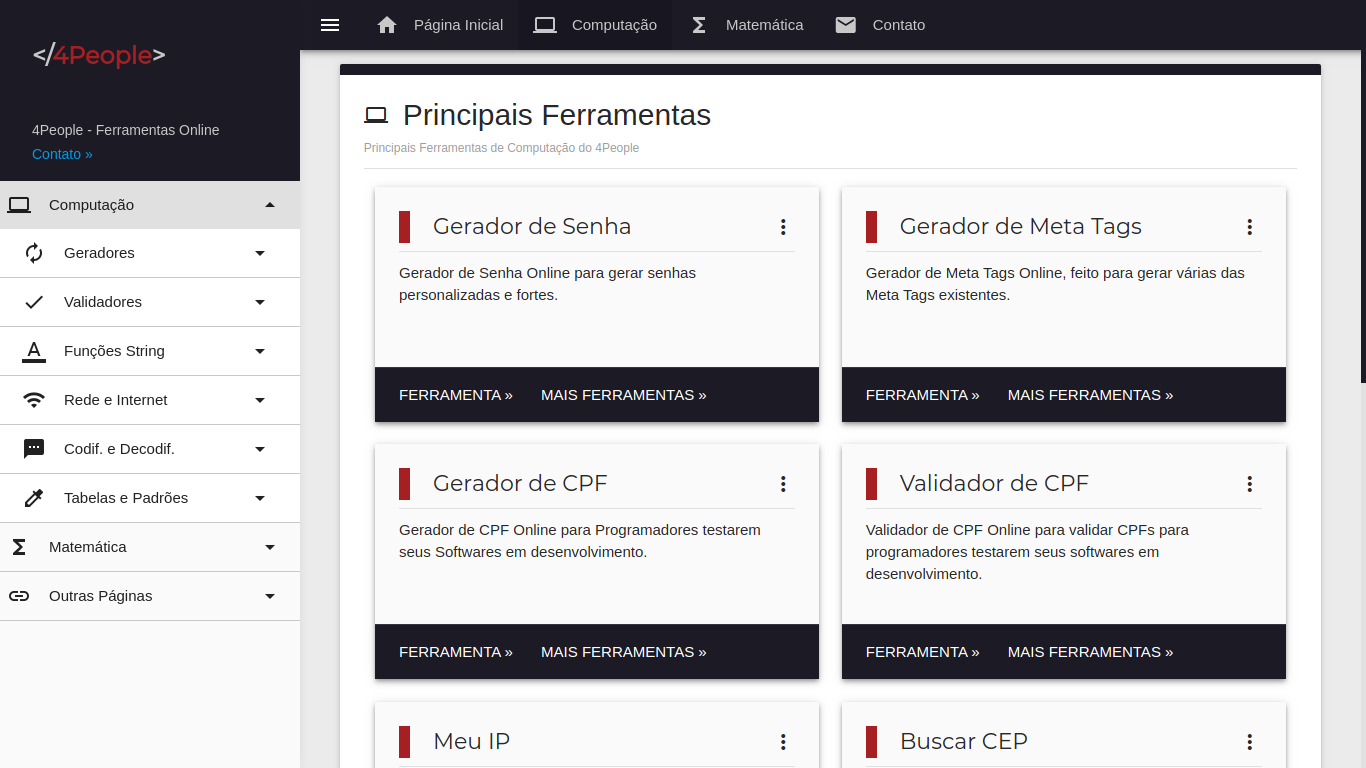
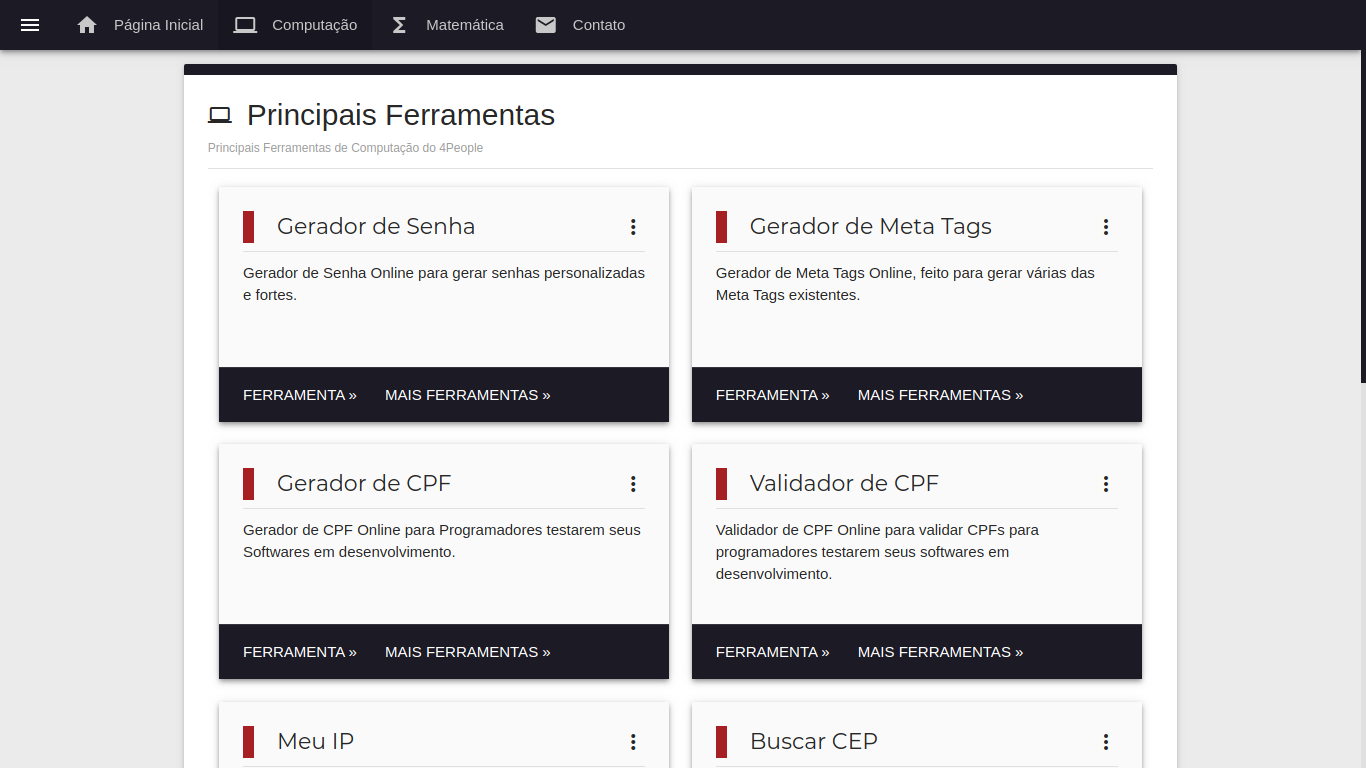
sidenav UI improvements and more

diff --git a/assets/src/css/main.css b/assets/src/css/main.css
@@ -32,7 +32,7 @@ body {
 
 .sidenav {
 	border-right: 0;
-	box-shadow: -15px 0 18px #1b1a25
+	box-shadow: -17px 0 18px #1b1a25
 }
 
 /* cyrillic-ext */
@@ -203,12 +203,30 @@ body>header+ul>li>.collapsible-header {
 }
 
 .sidenav.collapsible>li.active {
-	background-color: #E0E0E0
+	background-color: #D8D8D8
+}
+
+.collapsible-body li.active {
+	background-color: #E9E9E9
+}
+
+.sidenav.collapsible>li,
+.collapsible-body li {
+	transition: all 300ms
+}
+
+.collapsible-header:hover,
+.collapsible-header:focus {
+	background-color: unset !important
 }
 
 .collapsible-body a {
 	margin-bottom: -1px;
 	border-bottom: 1px solid #c8c8c8
+}
+
+.collapsible-body a:focus {
+	background-color: unset
 }
 
 .collapsible-body a i {
@@ -287,7 +305,6 @@ body>header+ul>li>.collapsible-header {
 
 @media (min-width: 993px) {
 	main>.container {
-		transition: width 300ms !important;
 		width: 92.5%
 	}
 

diff --git a/assets/algorithms/calculators/investment.js b/assets/algorithms/calculators/investment.js
@@ -1,0 +1,29 @@
+const calculateInvestment = ({ value = 0, CDI = 0, perMonth = 0, months = 0, IR = false }) => {
+	CDI /= 12
+	CDI /= 100
+
+	const formatter = Intl.NumberFormat([], { style: 'currency', currency: 'BRL' })
+	const oldValue = value
+
+	for (let i = 0; i < months; i++) {
+		value += value * CDI
+
+		if (i > 0) value += perMonth
+	}
+
+	let profit = value - perMonth * (months - 1) - oldValue
+	const tax = IR ? profit * (months < 7 ? .225 : (months < 13 ? .2 : (months < 25 ? .175 : .15))) : 0
+	profit -= tax
+	value -= tax
+
+	return {
+		start: formatter.format(oldValue),
+		amountMonths: months,
+		amountYears: Math.floor(months / 12),
+		tax: formatter.format(tax),
+		profit: formatter.format(profit),
+		perMonth: formatter.format(profit / months),
+		perYear: formatter.format(profit / Math.floor(months / 12)),
+		total: formatter.format(value),
+	}
+}

diff --git a/assets/src/js/sidenav.js b/assets/src/js/sidenav.js
@@ -9,6 +9,7 @@ document.addEventListener('DOMContentLoaded', () => {
 			const icon = paddingHeadersA[i].querySelector('i')
 			icon.innerHTML = 'radio_button_checked'
 			icon.classList.add('dark-grey-text')
+			icon.classList.remove('red-color-text')
 			icon.style.fontSize = '20px'
 			icon.style.marginLeft = '2.5px'
 

diff --git a/assets/components/admin_components/sidenav.php b/assets/components/admin_components/sidenav.php
@@ -29,11 +29,11 @@ extract($sql->fetch())
 			<ul class="collapsible padding-headers padding-buttons">
 				<li>
 					<ul>
-						<li><a class="waves-effect" href="<?= $root ?>/admin/panel/" title="Painel Administrativo"><i class="material-icons left">keyboard_arrow_right</i>Painel Administrativo</a></li>
-						<li><a class="waves-effect" href="<?= $root ?>/admin/panel/messages/" title="Mensagens dos usuários"><i class="material-icons left">keyboard_arrow_right</i>Mensagem dos usuários</a></li>
-						<li><a class="waves-effect" href="<?= $root ?>/admin/panel/login_logs/" title="Logs de Logins falhos"><i class="material-icons left">keyboard_arrow_right</i>Logs de Logins falhos</a></li>
-						<li><a class="waves-effect" href="<?= $root ?>/admin/panel/admin_logs/" title="Logs de Administradores"><i class="material-icons left">keyboard_arrow_right</i>Logs de Administradores</a></li>
-						<li><a class="waves-effect" href="<?= $root ?>/admin/panel/maintenance/" title="Manutenção do site"><i class="material-icons left">keyboard_arrow_right</i>Manutenção do 4People</a></li>
+						<li><a class="waves-effect" href="<?= $root ?>/admin/panel/" title="Painel Administrativo"><i class="material-icons left red-color-text">keyboard_arrow_right</i>Painel Administrativo</a></li>
+						<li><a class="waves-effect" href="<?= $root ?>/admin/panel/messages/" title="Mensagens dos usuários"><i class="material-icons left red-color-text">keyboard_arrow_right</i>Mensagem dos usuários</a></li>
+						<li><a class="waves-effect" href="<?= $root ?>/admin/panel/login_logs/" title="Logs de Logins falhos"><i class="material-icons left red-color-text">keyboard_arrow_right</i>Logs de Logins falhos</a></li>
+						<li><a class="waves-effect" href="<?= $root ?>/admin/panel/admin_logs/" title="Logs de Administradores"><i class="material-icons left red-color-text">keyboard_arrow_right</i>Logs de Administradores</a></li>
+						<li><a class="waves-effect" href="<?= $root ?>/admin/panel/maintenance/" title="Manutenção do site"><i class="material-icons left red-color-text">keyboard_arrow_right</i>Manutenção do 4People</a></li>
 					</ul>
 				</li>
 			</ul>
@@ -48,9 +48,9 @@ extract($sql->fetch())
 			<ul class="collapsible padding-headers padding-buttons">
 				<li>
 					<ul>
-						<li><a class="waves-effect" href="<?= $root ?>/admin/panel/administrators/" title="Controle de Administradores"><i class="material-icons left">keyboard_arrow_right</i>Controle de Administradores</a></li>
-						<li><a class="waves-effect" href="<?= $root ?>/admin/panel/banneds/" title="Controle de usuários banidos"><i class="material-icons left">keyboard_arrow_right</i>Controle de Banimentos</a></li>
-						<li><a class="waves-effect" href="<?= $root ?>/admin/panel/tools/tool_types/" title="Controle de Tipos de Ferramentas"><i class="material-icons left">keyboard_arrow_right</i>Controle de Tipos</a></li>
+						<li><a class="waves-effect" href="<?= $root ?>/admin/panel/administrators/" title="Controle de Administradores"><i class="material-icons left red-color-text">keyboard_arrow_right</i>Controle de Administradores</a></li>
+						<li><a class="waves-effect" href="<?= $root ?>/admin/panel/banneds/" title="Controle de usuários banidos"><i class="material-icons left red-color-text">keyboard_arrow_right</i>Controle de Banimentos</a></li>
+						<li><a class="waves-effect" href="<?= $root ?>/admin/panel/tools/tool_types/" title="Controle de Tipos de Ferramentas"><i class="material-icons left red-color-text">keyboard_arrow_right</i>Controle de Tipos</a></li>
 						<?php
 						$sql = $database->prepare('SELECT COUNT(type_id) AS types_count FROM types LIMIT 1');
 						$sql->execute();
@@ -61,10 +61,10 @@ extract($sql->fetch())
 						$sections_count = $sql->fetchColumn();
 
 						if ($types_count) : ?>
-							<li><a class="waves-effect" href="<?= $root ?>/admin/panel/tools/tool_sections/" title="Controle de Seções de Ferramentas"><i class="material-icons left">keyboard_arrow_right</i>Controle de Seções</a></li>
+							<li><a class="waves-effect" href="<?= $root ?>/admin/panel/tools/tool_sections/" title="Controle de Seções de Ferramentas"><i class="material-icons left red-color-text">keyboard_arrow_right</i>Controle de Seções</a></li>
 						<?php endif ?>
 						<?php if ($sections_count) : ?>
-							<li><a class="waves-effect" href="<?= $root ?>/admin/panel/tools/tool_controls/" title="Controle de Ferramentas"><i class="material-icons left">keyboard_arrow_right</i>Controle de Ferramentas</a></li>
+							<li><a class="waves-effect" href="<?= $root ?>/admin/panel/tools/tool_controls/" title="Controle de Ferramentas"><i class="material-icons left red-color-text">keyboard_arrow_right</i>Controle de Ferramentas</a></li>
 						<?php endif ?>
 					</ul>
 				</li>
@@ -78,8 +78,8 @@ extract($sql->fetch())
 			<ul class="collapsible padding-headers padding-buttons">
 				<li>
 					<ul>
-						<li><a class="waves-effect" href="<?= $root ?>/" title="Voltar ao Início"><i class="material-icons left">home</i>Voltar ao Início</a></li>
-						<li><a class="waves-effect" href="<?= $assets ?>/php/Logout.php" title="Sair"><i class="material-icons left">exit_to_app</i>Sair</a></li>
+						<li><a class="waves-effect" href="<?= $root ?>/" title="Voltar ao Início"><i class="material-icons left red-color-text">keyboard_arrow_right</i>Voltar ao Início</a></li>
+						<li><a class="waves-effect" href="<?= $assets ?>/php/Logout.php" title="Sair"><i class="material-icons left red-color-text">keyboard_arrow_right</i>Sair</a></li>
 					</ul>
 				</li>
 			</ul>

diff --git a/assets/components/sidenav.php b/assets/components/sidenav.php
@@ -93,9 +93,9 @@ if ($logged) {
 												} ?>
 										<?php if ($tool_status || $admin) : ?>
 											<?php if ($active) : ?>
-												<li><a class="waves-effect black-text" style="font-weight:bold" onclick="preventDefault(event)" href="<?= $root ?>/pages/<?= $type_path ?>/<?= $section_path ?>/<?= $tool_path ?>/" title="<?= $tool_name ?>"><i class="material-icons dark-grey-text left" style="font-size:20px;margin-left:2.5px">radio_button_checked</i><?= $tool_name ?></a></li>
+												<li><a class="waves-effect waves- black-text" style="font-weight:bold" onclick="preventDefault(event)" href="<?= $root ?>/pages/<?= $type_path ?>/<?= $section_path ?>/<?= $tool_path ?>/" title="<?= $tool_name ?>"><i class="material-icons dark-grey-text left" style="font-size:20px;margin-left:2.5px">radio_button_checked</i><?= $tool_name ?></a></li>
 											<?php else : ?>
-												<li><a class="waves-effect" href="<?= $root ?>/pages/<?= $type_path ?>/<?= $section_path ?>/<?= $tool_path ?>/" title="<?= $tool_name ?>"><i class="material-icons left">keyboard_arrow_right</i><?= $tool_name ?></a></li>
+												<li><a class="waves-effect waves-" href="<?= $root ?>/pages/<?= $type_path ?>/<?= $section_path ?>/<?= $tool_path ?>/" title="<?= $tool_name ?>"><i class="material-icons left red-color-text">keyboard_arrow_right</i><?= $tool_name ?></a></li>
 											<?php endif ?>
 										<?php endif ?>
 									<?php endforeach ?>
@@ -116,13 +116,13 @@ if ($logged) {
 			<ul class="collapsible padding-headers padding-buttons">
 				<li>
 					<ul>
-						<li><a class="waves-effect" href="<?= $root ?>/pages/contact/" title="Contato - 4People"><i class="material-icons left">keyboard_arrow_right</i>Contato</a></li>
+						<li><a class="waves-effect" href="<?= $root ?>/pages/contact/" title="Contato - 4People"><i class="material-icons left red-color-text">keyboard_arrow_right</i>Contato</a></li>
 						<?php
 						$sql = $database->prepare('SELECT type_name, type_path FROM types');
 						$sql->execute();
 
 						foreach ($sql as $data) : extract($data) ?>
-							<li><a class="waves-effect" href="<?= $root ?>/pages/<?= $type_path ?>/" title="<?= $type_name ?>"><i class="material-icons left">keyboard_arrow_right</i><?= $type_name ?></a></li>
+							<li><a class="waves-effect" href="<?= $root ?>/pages/<?= $type_path ?>/" title="<?= $type_name ?>"><i class="material-icons left red-color-text">keyboard_arrow_right</i><?= $type_name ?></a></li>
 						<?php endforeach ?>
 					</ul>
 				</li>
@@ -137,8 +137,8 @@ if ($logged) {
 				<ul class="collapsible padding-headers padding-buttons">
 					<li>
 						<ul>
-							<li><a class="waves-effect" href="<?= $root ?>/admin/panel/" title="Ir ao Painel Administrativo"><i class="material-icons left">verified_user</i>Painel Administrativo</a></li>
-							<li><a class="waves-effect" href="<?= $assets ?>/php/Logout.php" title="Sair"><i class="material-icons left">exit_to_app</i>Sair</a></li>
+						<li><a class="waves-effect" href="<?= $root ?>/admin/panel/" title="Painel Administrativo"><i class="material-icons left red-color-text">keyboard_arrow_right</i>Painel Administrativo</a></li>
+						<li><a class="waves-effect" href="<?= $assets ?>/php/Logout.php" title="Sair"><i class="material-icons left red-color-text">keyboard_arrow_right</i>Sair</a></li>
 						</ul>
 					</li>
 				</ul>

diff --git a/index.php b/index.php
@@ -135,7 +135,7 @@
 					</div>
 				</div>
 
-				<div class="divider mt-2 mb-2"></div>
+				<div class="divider mb-2"></div>
 
 				<div style="padding:0 20px">
 					<blockquote class="grey-text text-darken-3" style="border-left-color:#A62023">
@@ -148,7 +148,7 @@
 
 				<div class="row mb-0">
 					<div class="col s12 m6 l4">
-						<img title="Lucas Bittencourt" class="responsive-img img-thumbnail" src="<?= $assets ?>/images/lucas_bittencourt.jpg" alt="">
+						<a href="https://github.com/lucasnaja" target="_blank"><img title="Lucas Bittencourt" class="responsive-img img-thumbnail" src="<?= $assets ?>/images/lucas_bittencourt.jpg" alt="Lucas Bittencourt"></a>
 					</div>
 
 					<div class="col s12 m6 l8">
@@ -165,7 +165,7 @@
 
 				<div class="row mb-0" style="margin-top:12px">
 					<div class="col s12 m6 l4">
-						<img title="Suzany Silva" class="responsive-img img-thumbnail" src="<?= $assets ?>/images/suzany_silva.jpg" alt="">
+						<img title="Suzany Silva" class="responsive-img img-thumbnail" src="<?= $assets ?>/images/suzany_silva.jpg" alt="Suzany Silva">
 					</div>
 
 					<div class="col s12 m6 l8">
@@ -178,7 +178,7 @@
 
 				<div class="row mb-0" style="margin-top:12px">
 					<div class="col s12 m6 l4">
-						<img title="Renan Mattos" class="responsive-img img-thumbnail" src="<?= $assets ?>/images/renan_mattos.jpg" alt="">
+						<img title="Renan Mattos" class="responsive-img img-thumbnail" src="<?= $assets ?>/images/renan_mattos.jpg" alt="Renan Mattos">
 					</div>
 
 					<div class="col s12 m6 l8">

diff --git a/assets/components/footer.php b/assets/components/footer.php
@@ -3,9 +3,9 @@
 		<div class="container" style="line-height:24px">
 			© 4People - <?= date('Y') ?>
 			<?php if (isset($_SESSION['logged']['id'])) : ?>
-				<a class="right linkHover" href="<?= $root ?>/admin/panel/"><i class="material-icons left" style="top:-1px">verified_user</i>Painel Administrativo »</a>
+				<a class="right linkHover red-color-text" href="<?= $root ?>/admin/panel/"><i class="material-icons left" style="top:-1px">verified_user</i>Painel Administrativo »</a>
 			<?php else : ?>
-				<a class="right linkHover" href="<?= $root ?>/pages/contact/"><i class="material-icons left" style="top:-1px">email</i>Contato »</a>
+				<a class="right linkHover red-color-text" href="<?= $root ?>/pages/contact/"><i class="material-icons left" style="top:-1px">email</i>Contato »</a>
 			<?php endif ?>
 		</div>
 	</div>

diff --git a/assets/components/section_file.php b/assets/components/section_file.php
@@ -68,9 +68,9 @@
 									</div>
 
 									<div class="card-reveal">
-										<span class="card-title no-select"><i style="top:5px" class="material-icons left">code</i>Código Fonte<i class="material-icons right">close</i></span>
+										<span class="card-title no-select"><i style="top:5px" class="material-icons left">code</i>Código Fonte<i class="material-icons right red-color-text">close</i></span>
 										<div class="divider"></div>
-										<p><a class="linkHover bold" href="<?= $tool_link ?>" target="_blank">Clique aqui</a> para ir direto ao Código Fonte no GitHub.</p>
+										<p><a class="linkHover bold red-color-text" href="<?= $tool_link ?>" target="_blank">Clique aqui</a> para ir direto ao Código Fonte no GitHub.</p>
 									</div>
 								</div>
 							</div>

diff --git a/assets/components/type_file.php b/assets/components/type_file.php
@@ -68,9 +68,9 @@
 									</div>
 
 									<div class="card-reveal">
-										<span class="card-title no-select"><i style="top:5px" class="material-icons left">code</i>Código Fonte<i class="material-icons right">close</i></span>
+										<span class="card-title no-select"><i style="top:5px" class="material-icons left">code</i>Código Fonte<i class="material-icons right red-color-text">close</i></span>
 										<div class="divider"></div>
-										<p><a class="linkHover bold" href="<?= $tool_link ?>" target="_blank">Clique aqui</a> para ir direto ao Código Fonte no GitHub.</p>
+										<p><a class="linkHover bold red-color-text" href="<?= $tool_link ?>" target="_blank">Clique aqui</a> para ir direto ao Código Fonte no GitHub.</p>
 									</div>
 								</div>
 							</div>

diff --git a/pages/math/calculators/bhaskara/index.php b/pages/math/calculators/bhaskara/index.php
@@ -15,7 +15,7 @@
 	<meta name="description" content="Calcular a equação do 2° grau (Bhaskara). 4People é um site feito para ajudar estudantes, professores, programadores e pessoas em suas atividades diárias.">
 	<meta name="application-name" content="4People">
 	<meta property="og:title" content="Equação do 2° Grau - 4People">
-	<meta name="twitter:title" content="Equação do 2° Grau - 4People">>
+	<meta name="twitter:title" content="Equação do 2° Grau - 4People">
 </head>
 
 <body>

diff --git a/pages/math/calculators/gcd/index.php b/pages/math/calculators/gcd/index.php
@@ -55,7 +55,7 @@
 					Limpar
 				</button>
 
-				<div class="left-div dark-grey"></div>
+				<div class="top-div dark-grey"></div>
 			</div>
 
 			<?php include_once("$assets/components/more_tools.php") ?>
